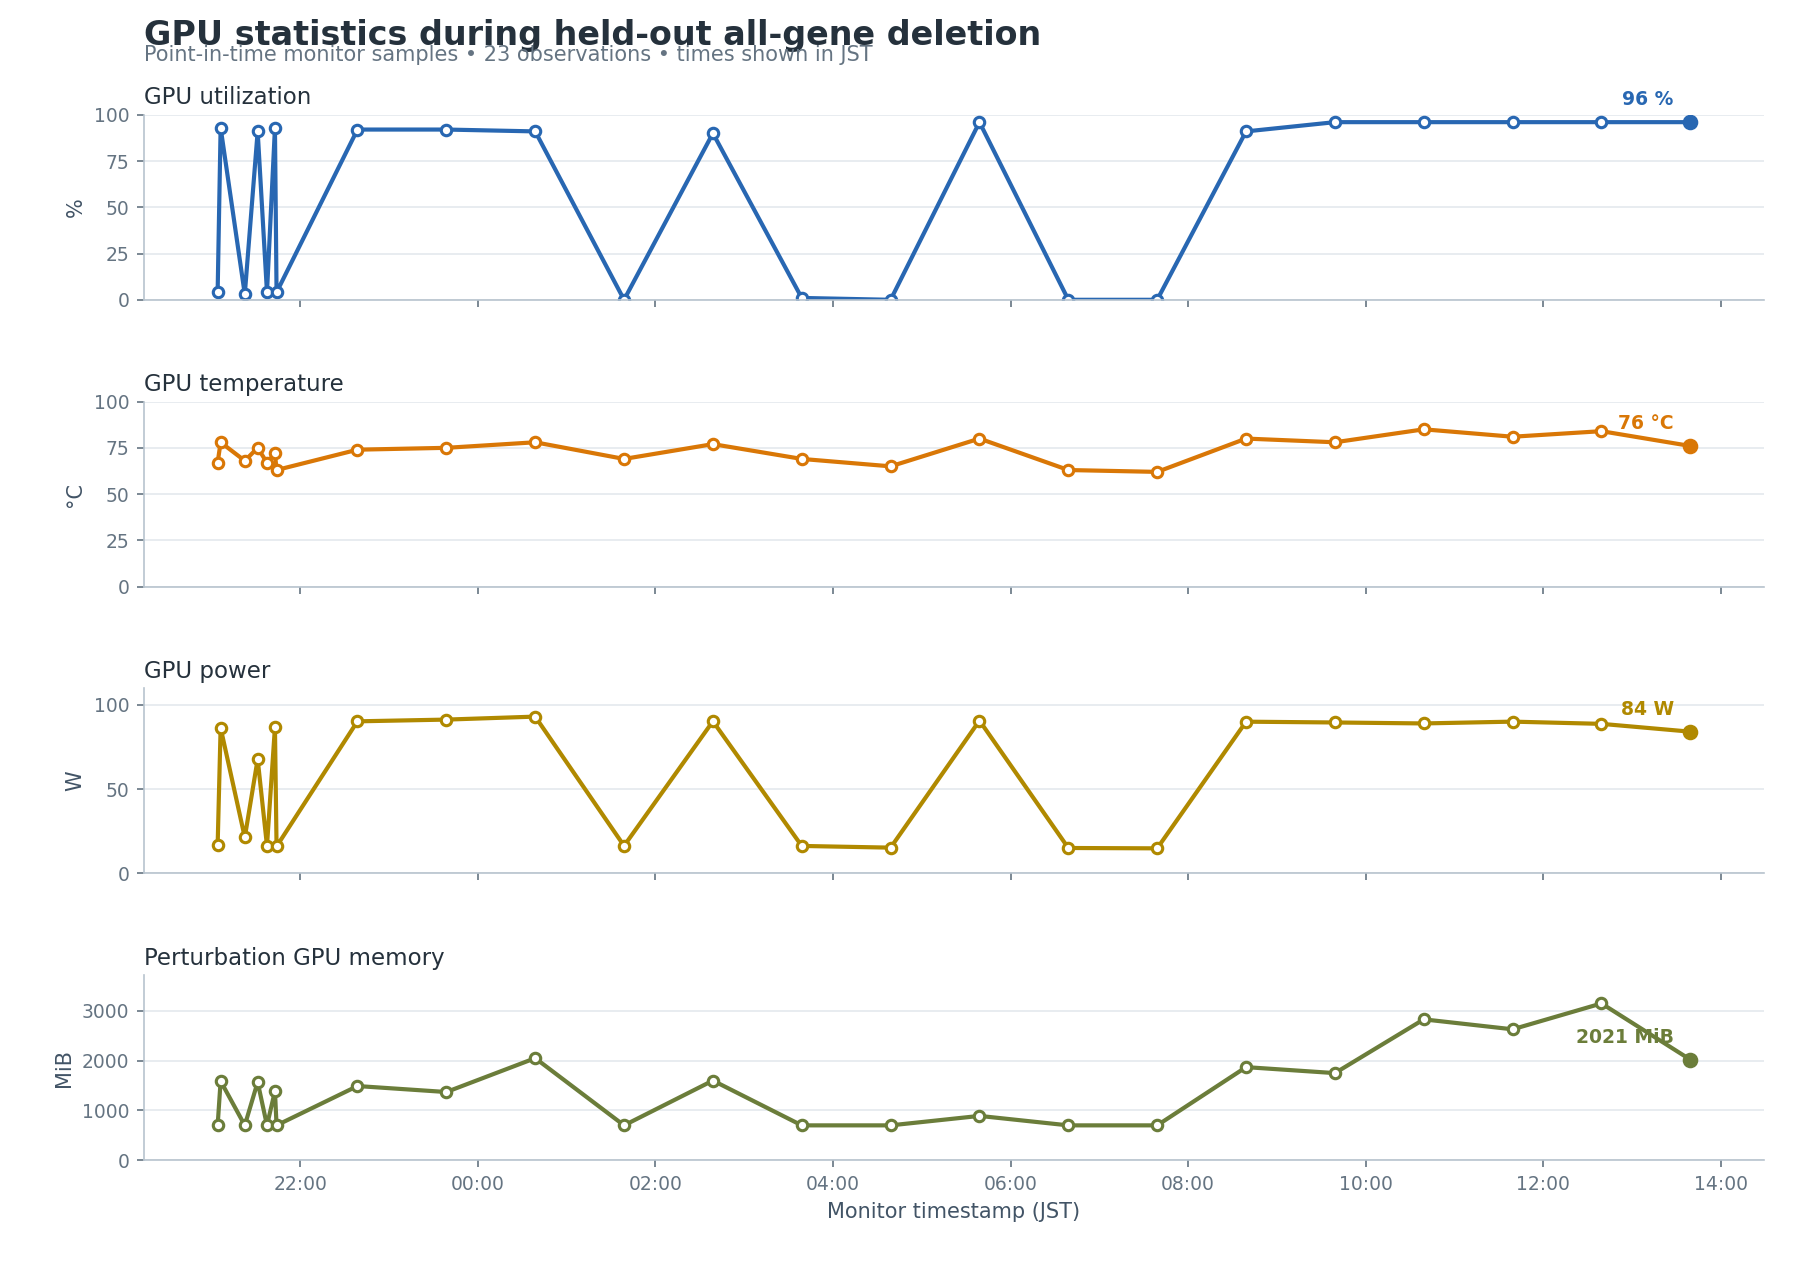
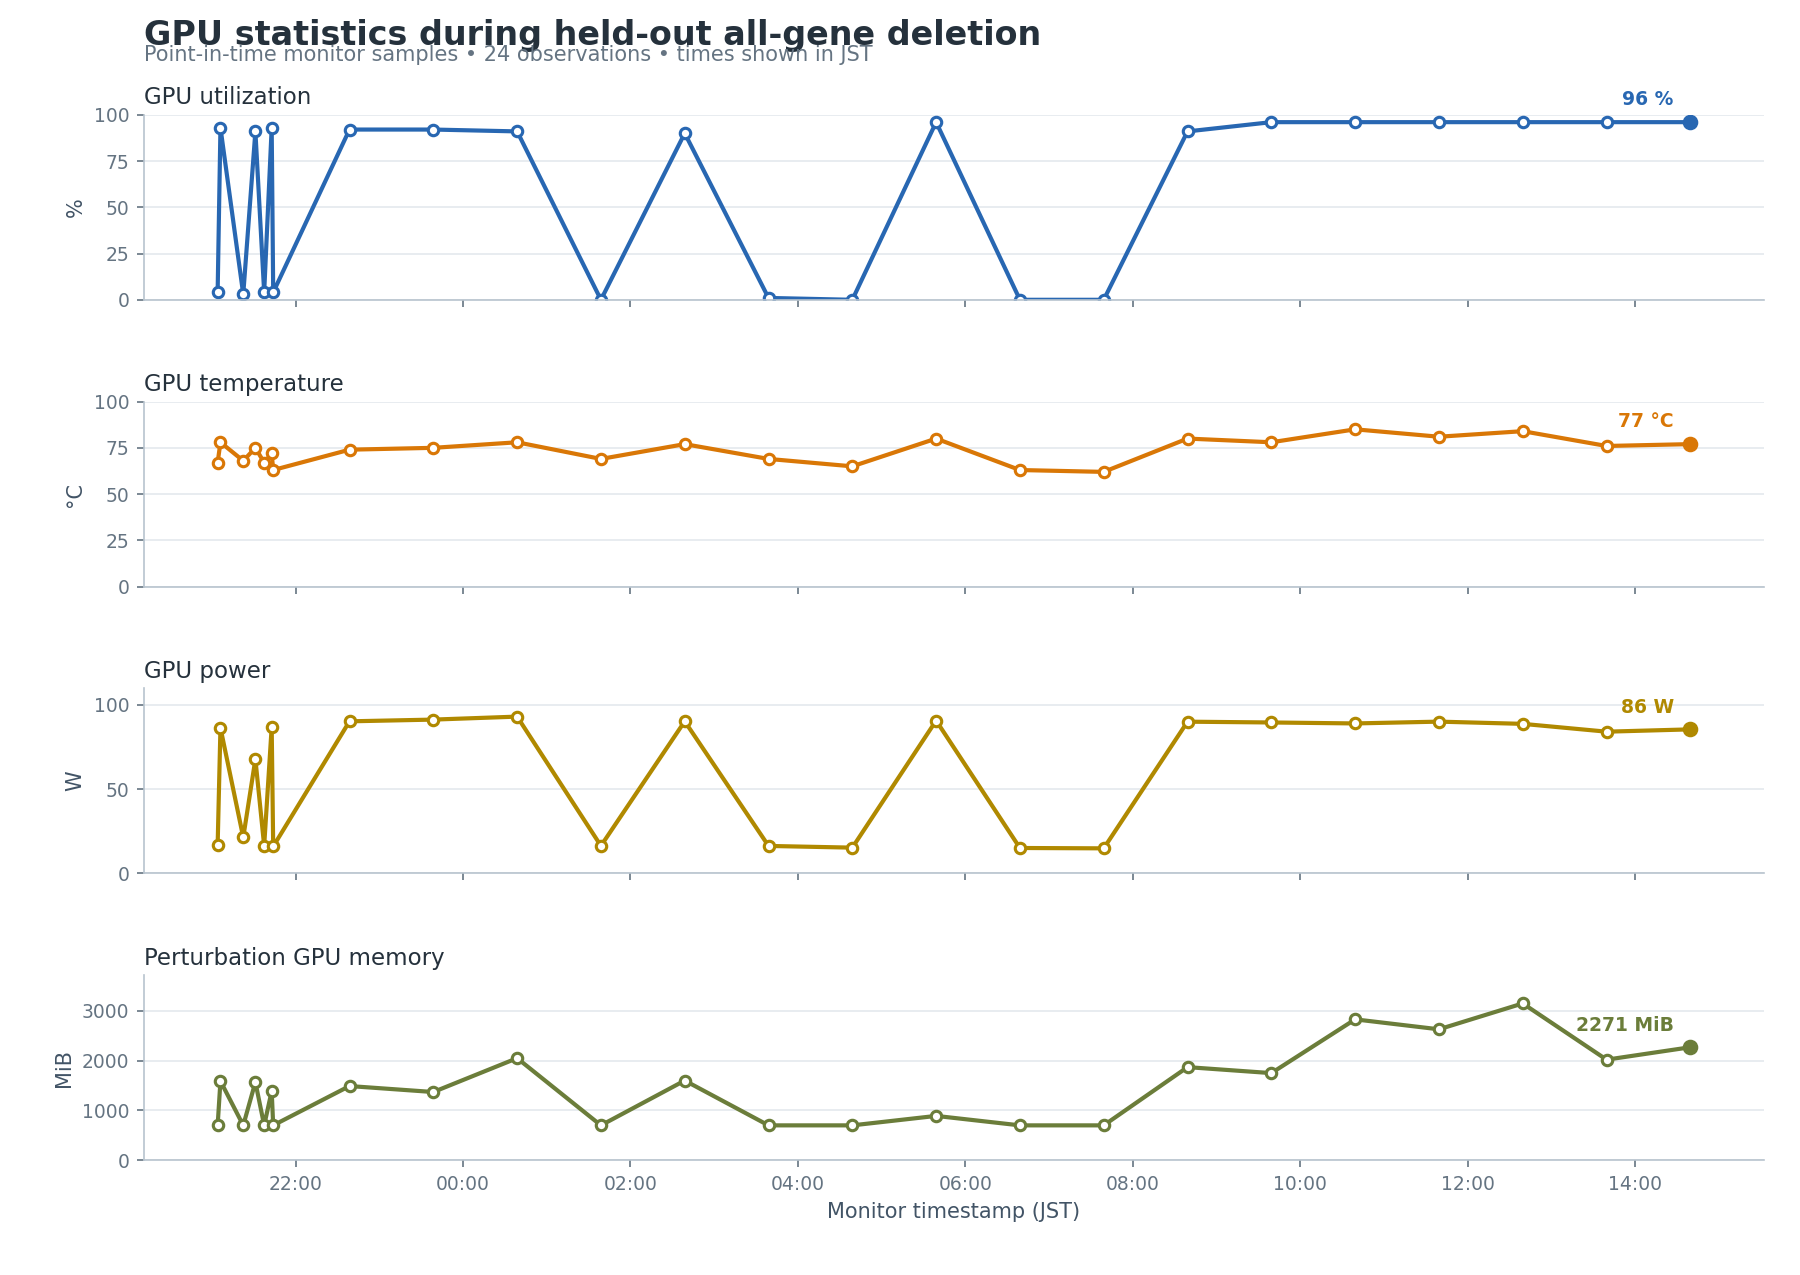
monitor: update perturbation status 2026-07-18 14:39 JST

diff --git a/current_workflow/monitoring/GPU_PROGRESS_REPORT.md b/current_workflow/monitoring/GPU_PROGRESS_REPORT.md
@@ -14,6 +14,39 @@ Newest snapshots appear first. Existing entries are retained below; the machine-
 
 ---
 
+## Snapshot — 2026-07-18T14:39:30+09:00
+
+Run status: **RUNNING**
+
+Overall cell progress: **2,351 / 3,379 (69.58%)**
+
+### GPU and memory
+
+| Metric | Current value |
+|---|---:|
+| GPU | NVIDIA GB10 |
+| GPU utilization | 96% |
+| GPU temperature | 77 C |
+| GPU power | 85.5 W |
+| Perturbation GPU memory | 2271 MiB |
+| System memory used | 40.4 GiB |
+| System memory available | 79.3 GiB |
+| Swap used | 0.0 GiB |
+
+### Perturbation progress
+
+| Source | Cells written | Shards complete | Raw files |
+|---|---:|---:|---:|
+| LUSC | 560 / 560 (100.00%) | 23 / 23 | 1,120 |
+| LUAD | 1,411 / 1,411 (100.00%) | 57 / 57 | 2,822 |
+| NORMAL | 380 / 1,408 (26.99%) | 15 / 57 | 764 |
+
+Statistics are generated after all shards for a source state complete. Cell
+counts include only cells with both raw checkpoint batches present.
+
+
+---
+
 ## Snapshot — 2026-07-18T13:39:27+09:00
 
 Run status: **RUNNING**
